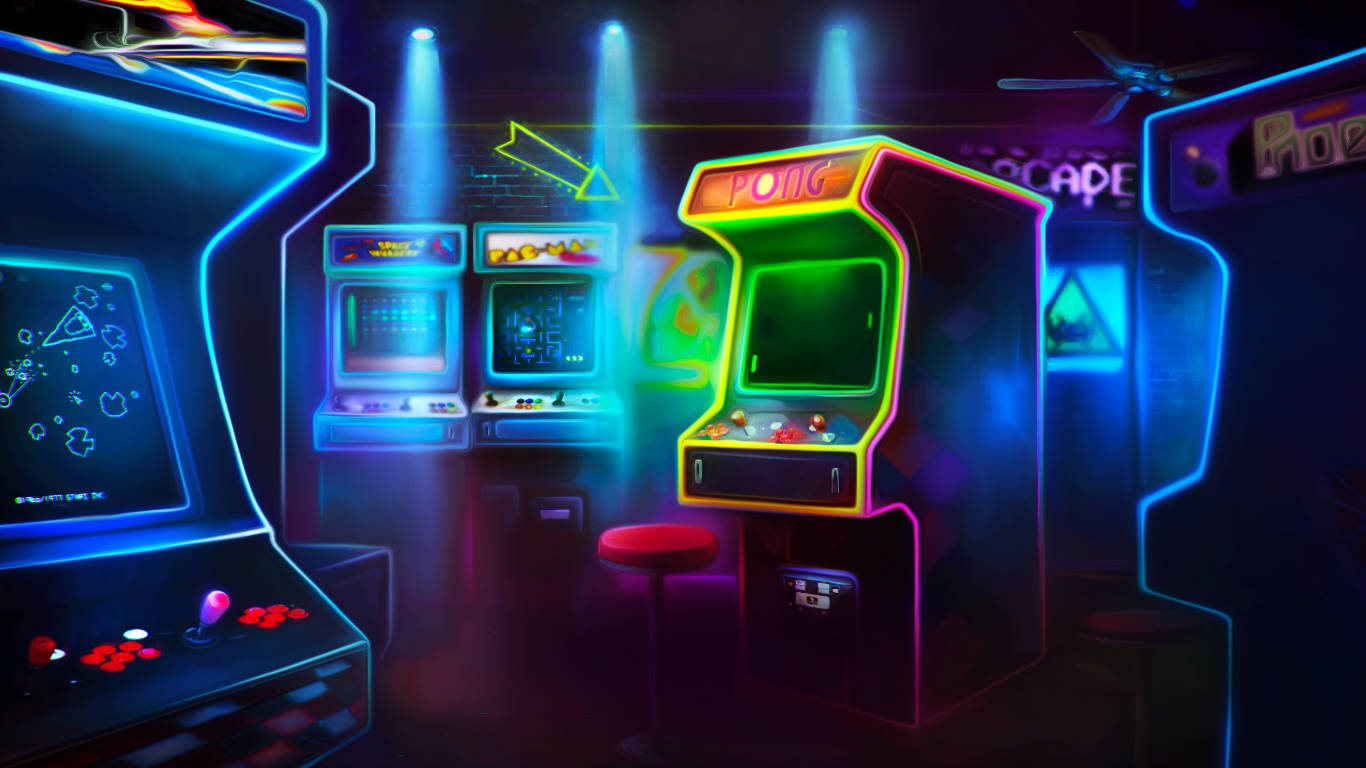
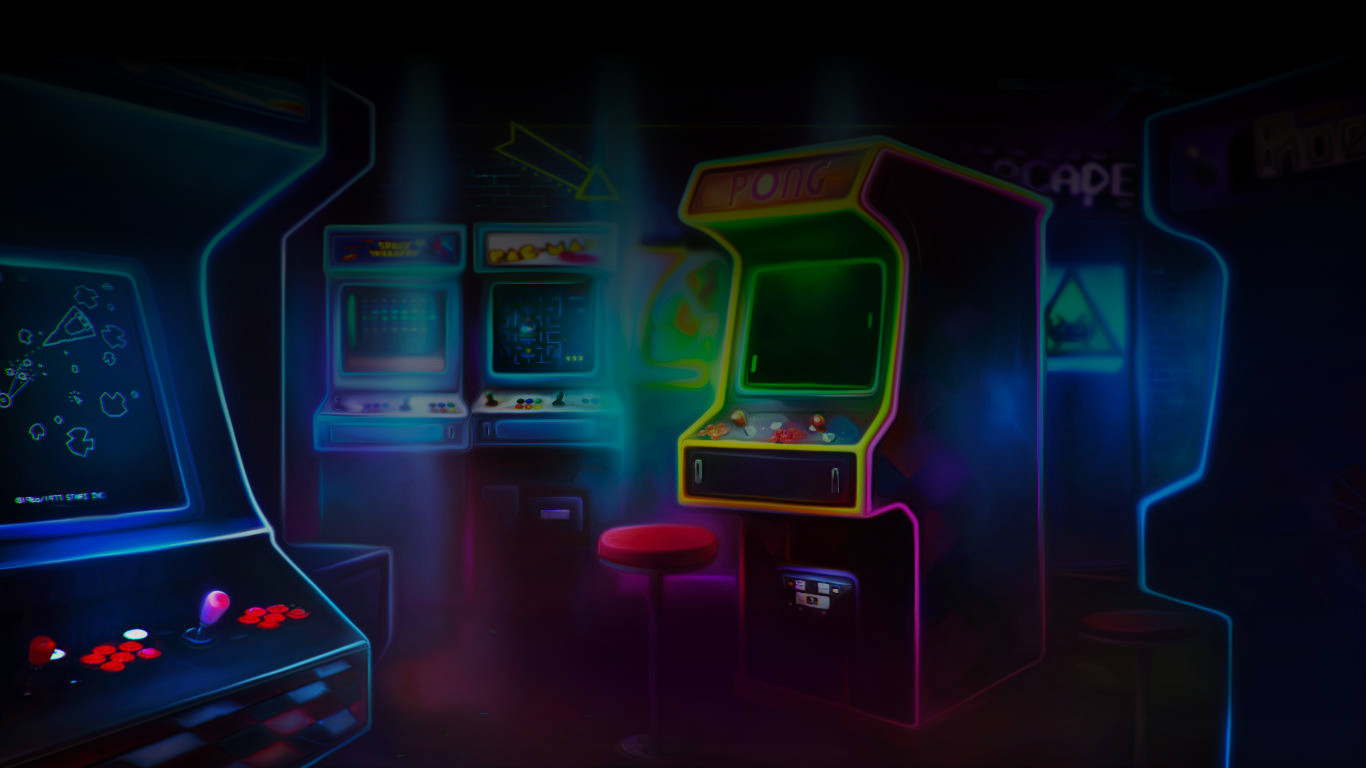
18 : feat : implementing object event into sfml lib

diff --git a/src/graphicals/SFML/src/SFML_LIB.cpp b/src/graphicals/SFML/src/SFML_LIB.cpp
@@ -23,9 +23,12 @@ namespace arcade {
             void draw(std::shared_ptr<arcade::IObject> object);
             void drawTile(arcade::ITile* _tile);
             void drawText(arcade::IText* text);
-            arcade::Input event();
+            arcade::Input event(std::vector<std::shared_ptr<arcade::IObject>> objs);
+            void clickEvent(std::vector<std::shared_ptr<arcade::IObject>> objs);
         protected:
         private:
+            sf::Mouse _mouse;
+            // std::vector<sf::VideoMode> fullscreenModes = sf::VideoMode::getFullscreenModes();
             sf::RenderWindow _window;
             sf::Event _event;
             sf::Music _music;
@@ -69,7 +72,6 @@ void arcade::SFML_Lib::drawText(arcade::IText* textObj)
     sf::Font font;
 
     font.loadFromFile("assets/fonts/8_bit.ttf");
-
     text.setString(textObj->getText());
     text.setFont(font);
     text.setPosition(sf::Vector2f(textObj->getPosition().first, textObj->getPosition().second));
@@ -102,10 +104,35 @@ void arcade::SFML_Lib::draw(std::shared_ptr<arcade::IObject> object)
     }
 }
 
+<<<<<<< HEAD
 
 
 arcade::Input arcade::SFML_Lib::event()
+=======
+void arcade::SFML_Lib::clickEvent(std::vector<std::shared_ptr<arcade::IObject>> objs)
+>>>>>>> 1efe2df (18 : feat : implementing object event into sfml lib)
 {
+    // if (_event.type == sf::Event::MouseButtonReleased) {
+    //     std::cout << "clicked" << std::endl;
+    // }
+    for (auto obj : objs) {
+        arcade::ITile* tile = dynamic_cast<arcade::ITile*>(obj.get());
+        if (tile != nullptr) {
+            if (tile->isClickable()) {
+                if (_event.mouseMove.x >= tile->getPosition().first && _event.mouseMove.x <= tile->getPosition().first + 50
+                && _event.mouseMove.y >= tile->getPosition().second && _event.mouseMove.y <= tile->getPosition().second + 50) {
+                    tile->setScale(std::make_pair(0.15, 0.15));
+                } else {
+                    tile->setScale(std::make_pair(0.1, 0.1));
+                }
+            }
+        }
+    }
+}
+
+arcade::Input arcade::SFML_Lib::event(std::vector<std::shared_ptr<arcade::IObject>> objs)
+{
+    // std::cout << _mouse.getPosition().x - _window.getSize().x << std::endl;
     while (_window.pollEvent(_event)) {
         if (_event.type == sf::Event::Closed) {
             _music.stop();
@@ -121,6 +148,8 @@ arcade::Input arcade::SFML_Lib::event()
                 _window.close();
                 return arcade::Input::NEXTGRAPH;
             }
+        if (_event.type == sf::Event::MouseMoved || _event.type == sf::Event::MouseButtonPressed) {
+            clickEvent(objs);
         }
         /*if(_event.type == sf::Event::KeyPressed) {
             if (_event.key.code == sf::Keyboard::M) {

diff --git a/src/graphicals/Ncurse/src/NCurseLib.cpp b/src/graphicals/Ncurse/src/NCurseLib.cpp
@@ -17,7 +17,7 @@ namespace arcade {
             void display();
             void clear();
             void draw(std::shared_ptr<arcade::IObject> object);
-            arcade::Input event();
+            arcade::Input event(std::vector<std::shared_ptr<arcade::IObject>> objs);
         protected:
         private:
     };
@@ -48,7 +48,7 @@ void arcade::NCurseLib::draw(std::shared_ptr<arcade::IObject> object)
     std::cout << "draw" << std::endl;
 }
 
-arcade::Input arcade::NCurseLib::event()
+arcade::Input arcade::NCurseLib::event(std::vector<std::shared_ptr<arcade::IObject>> objs)
 {
     std::cout << "event" << std::endl;
 }

diff --git a/src/games/menu/src/MenuLib.cpp b/src/games/menu/src/MenuLib.cpp
@@ -60,11 +60,11 @@ namespace arcade {
 arcade::MenuLib::MenuLib()
 {
     _background.setTexture("assets/gui/menu_bg.jpg");
-    _background.setColor(arcade::Color::DARK);
     _menuMusic.setSoundPath("assets/sounds/menu.ogg");
     _settings.setTexture("assets/gui/settings.png");
     _settings.setScale(std::make_pair(0.1, 0.1));
-    _settings.setPosition(std::make_pair(1150, 0));
+    _settings.setPosition(std::make_pair(1100, 50));
+    _settings.unableClick();
     _gameTitle.setText("Arcade");
     _gameTitle.setPosition(std::make_pair(50, 50));
 

diff --git a/include/games/menu/Tile.hpp b/include/games/menu/Tile.hpp
@@ -26,11 +26,15 @@ namespace arcade {
             void setColor(arcade::Color color);
             void setScale(std::pair<float, float> scale);
             void setRotation(float rotation);
+            bool isClickable();
+            void unableClick();
+            void disableClick();
         protected:
         private:
             std::pair<float, float> _scale = std::make_pair(1, 1);
             std::string _texture;
             std::pair<float, float> _position = std::make_pair(0, 0);
+            bool _clickable = false;
     };
 }
 

diff --git a/include/IObject.hpp b/include/IObject.hpp
@@ -168,6 +168,18 @@ namespace arcade
          * @return void
          */
         virtual void setRotation(float rotation) = 0;
+
+        /**
+         * @brief Set the rotation of the object
+         * 
+         * @params float
+         * 
+         * @return void
+         */
+        virtual void setRotation(float rotation) = 0;
+        virtual bool isClickable() = 0;
+        virtual void unableClick() = 0;
+        virtual void disableClick() = 0;
     };
 
     class IText : public IObject

diff --git a/include/IGraphics.hpp b/include/IGraphics.hpp
@@ -48,7 +48,7 @@ namespace arcade
          *
          * @return arcade::Input corresponds to the last events from the loaded graphic library
          */
-        virtual arcade::Input event() = 0;
+        virtual arcade::Input event(std::vector<std::shared_ptr<arcade::IObject>> objs) = 0;
     };
 }
 

diff --git a/src/games/menu/src/Tile.cpp b/src/games/menu/src/Tile.cpp
@@ -74,3 +74,19 @@ void arcade::Tile::setRotation(float rotation)
 {
 
 }
+
+void arcade::Tile::unableClick()
+{
+    _clickable = true;
+}
+
+void arcade::Tile::disableClick()
+{
+    _clickable = false;
+}
+
+
+bool arcade::Tile::isClickable()
+{
+    return _clickable;
+}
